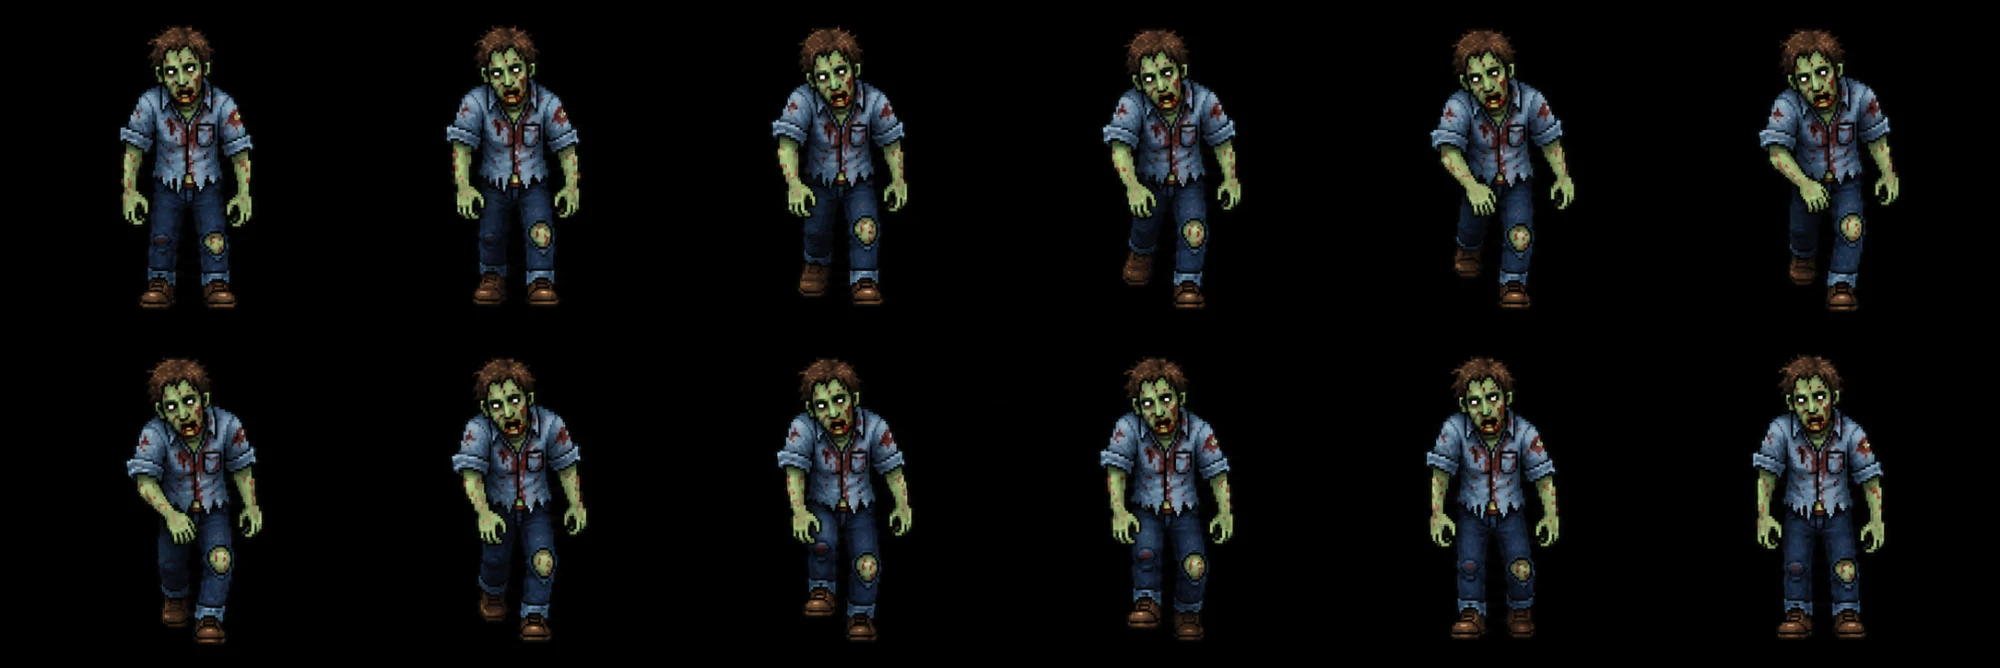
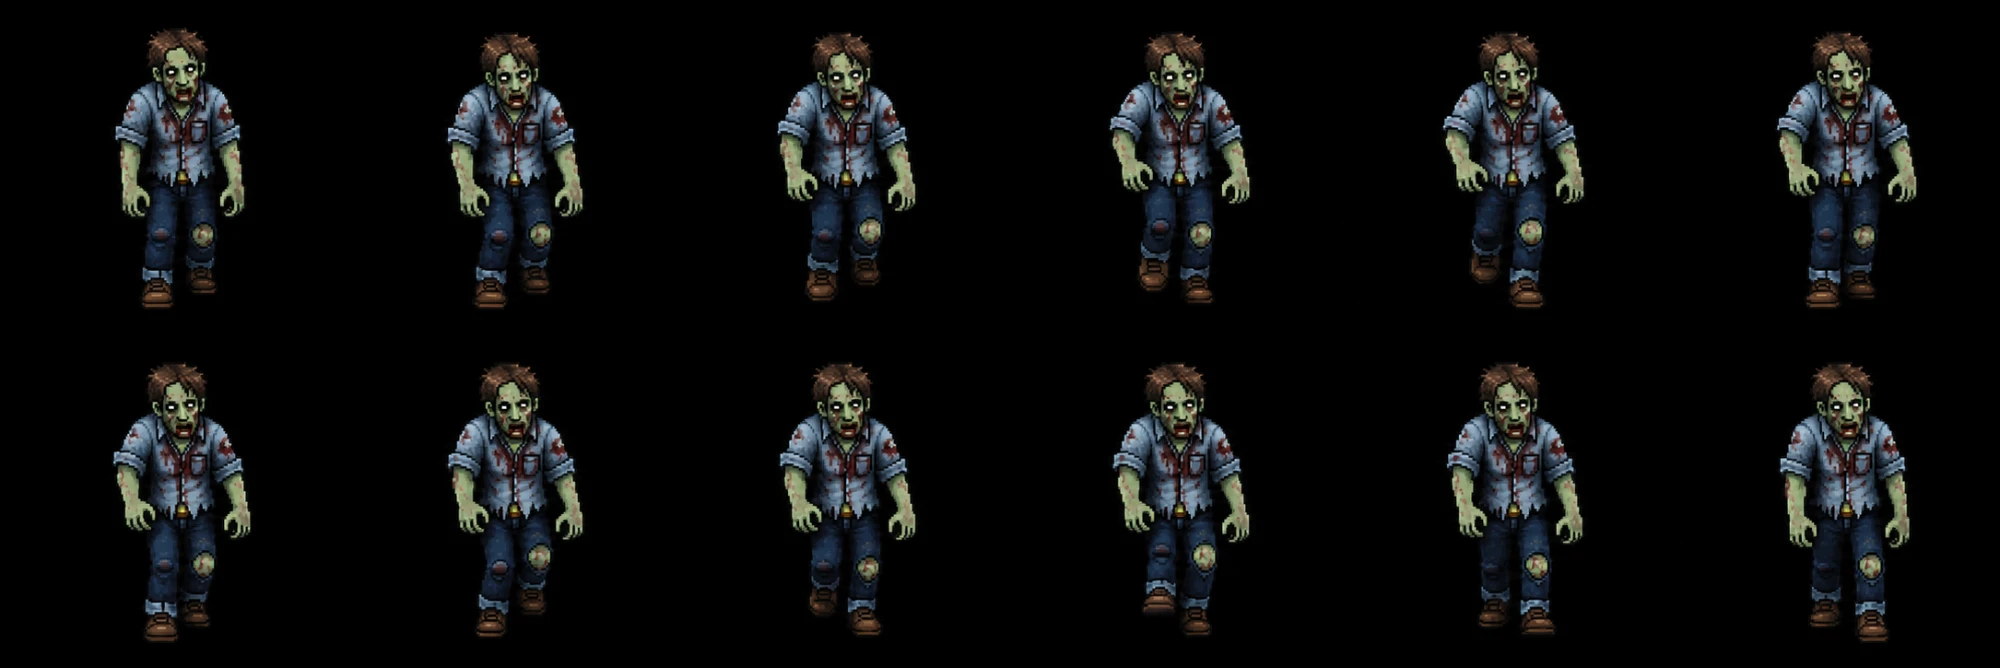
Vecino con GPT: andar de frente nuevo, pedido a GPT paso a paso (ahora se turnan las dos piernas; el de antes movía casi solo una), y a 7 fotogramas por segundo en vez de 10, como eligió el dueño (un paso cada 0,85 s). tools/zombi.py acepta "fps_andar" en el zombi.json de cada zombi; sin él, los dem

diff --git a/tools/zombi.py b/tools/zombi.py
@@ -5,7 +5,7 @@ Lo saca todo de assets/sources/<fuente>/:
   walk/<dirección>-<n>.png      andar (PixMiniMax; el lienzo cambia de tamaño según la dirección)
   ataque/, golpe/, muerte/      atacar, recibir un golpe y morir (lienzo de 96×96 con el dibujo quieto en 24, 32)
   reposo/ (opcional)            reposo de PixMiniMax, con partida y final en el dibujo quieto (el de tentáculos)
-  zombi.json (opcional)         qué fotogramas se usan, cuánto dura cada animación, "cintura", "pies", "sangre", "casilla" y "origen"
+  zombi.json (opcional)         qué fotogramas se usan, cuánto dura cada animación, "cintura", "pies", "sangre", "casilla", "origen" y "fps_andar"
 En todas las animaciones el fotograma 0 es el dibujo quieto: así se sabe dónde colocar los demás.
 
 Y escribe assets/sprites/<sprite>.png y .json con seis animaciones:
@@ -285,7 +285,8 @@ for name, b in blocks:
     for r, d in enumerate(DIRS):
         for i, f in enumerate(b[d]):
             sheet.alpha_composite(f, (i * CW, (row + r) * CH))
-    fps = {'idle': cfg.get('reposo', {}).get('fps', 1.5), 'walk': 10}.get(name) or round(len(b['south']) / DUR[name], 1)
+    # andar, a 10 fotogramas por segundo; otro ritmo con "fps_andar" (el vecino de GPT, a 7: lo eligió el dueño)
+    fps = {'idle': cfg.get('reposo', {}).get('fps', 1.5), 'walk': cfg.get('fps_andar', 10)}.get(name) or round(len(b['south']) / DUR[name], 1)
     anims[name] = {'fps': fps, 'loop': name in ('idle', 'walk'),
                    'dirs': {d: {'row': row + r, 'frames': len(b[d])} for r, d in enumerate(DIRS)}}
     row += len(DIRS)
